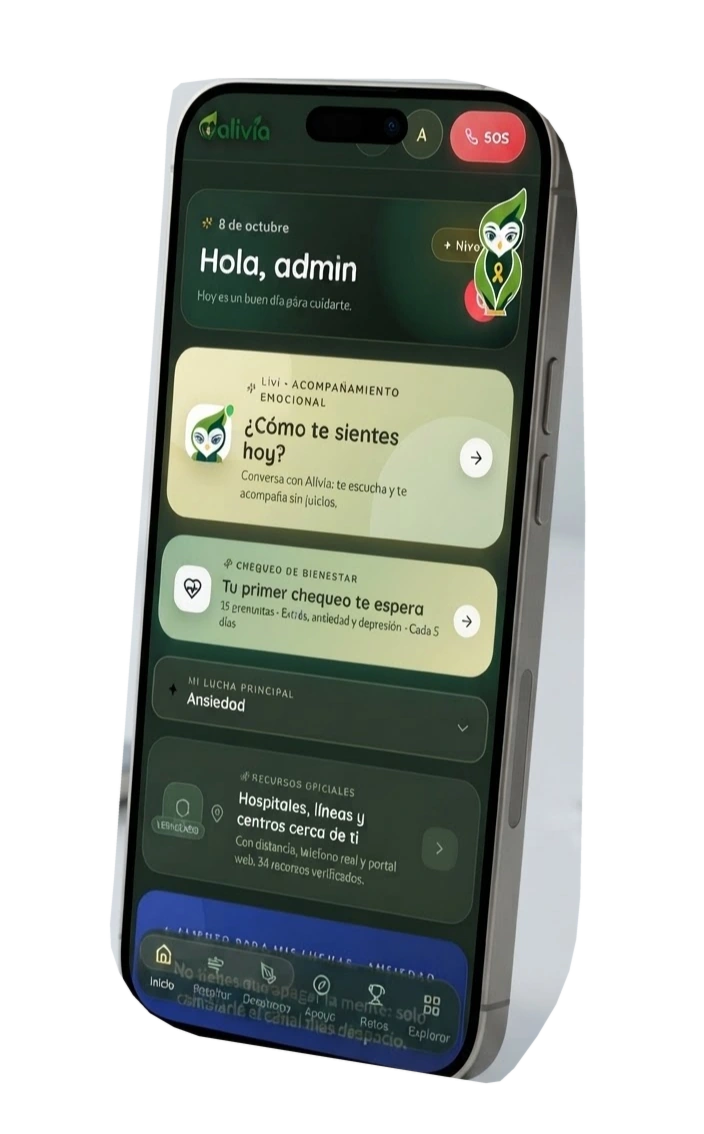
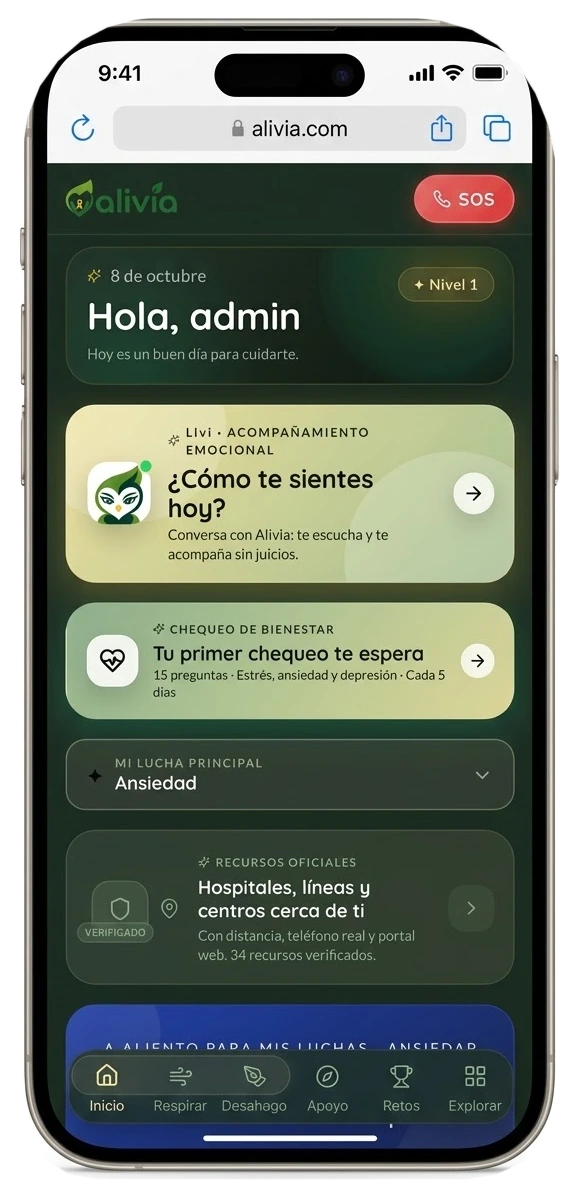
feat(landing): actualiza mockup y parallax del hero
Reemplaza la imagen del teléfono y ajusta el fondo transparente; añade profundidad al desplazamiento del mockup y su halo.

diff --git a/public/landing.html b/public/landing.html
@@ -208,11 +208,11 @@ a{color:inherit}
 .btn svg{width:18px;height:18px;flex:none;fill:currentColor}
 
 /* Mockup del producto */
-.mockup{position:relative;display:grid;justify-items:center;margin:0;isolation:isolate;transform:translate3d(0,var(--scroll-offset,0px),0);will-change:transform}
+.mockup{position:relative;display:grid;justify-items:center;margin:0;isolation:isolate;transform:translate3d(0,var(--scroll-offset,0px),0) rotate(var(--scroll-tilt,0deg));will-change:transform}
 .mockup::before{
   content:"";position:absolute;z-index:-1;width:88%;aspect-ratio:1;top:10%;
   background:radial-gradient(circle,rgba(140,176,141,.22),rgba(233,200,107,.1) 42%,transparent 70%);
-  filter:blur(22px)
+  filter:blur(22px);opacity:var(--glow-opacity,.9);transform:scale(var(--glow-scale,1))
 }
 .mockup img{
   display:block;width:auto;height:min(68vh,570px);max-width:100%;object-fit:contain;
@@ -1194,7 +1194,7 @@ a{color:inherit}
   }
 })();
 
-/* Desplazamiento sutil del mockup al recorrer la página */
+/* Parallax suave para dar profundidad al mockup y su halo */
 (function(){
   var mockup = document.querySelector('.mockup');
   var reduce = window.matchMedia && window.matchMedia('(prefers-reduced-motion: reduce)').matches;
@@ -1203,8 +1203,11 @@ a{color:inherit}
   function update(){
     var rect = mockup.getBoundingClientRect();
     var progress = (window.innerHeight - rect.top) / (window.innerHeight + rect.height);
-    var offset = Math.max(-12, Math.min(12, (progress - 0.5) * 24));
-    mockup.style.setProperty('--scroll-offset', offset.toFixed(2) + 'px');
+    var depth = Math.max(-1, Math.min(1, (progress - 0.5) * 2));
+    mockup.style.setProperty('--scroll-offset', (depth * 30).toFixed(2) + 'px');
+    mockup.style.setProperty('--scroll-tilt', (depth * 1.15).toFixed(2) + 'deg');
+    mockup.style.setProperty('--glow-scale', (1 - Math.abs(depth) * 0.12).toFixed(2));
+    mockup.style.setProperty('--glow-opacity', (0.62 + (1 - Math.abs(depth)) * 0.32).toFixed(2));
     pending = false;
   }
   function schedule(){
